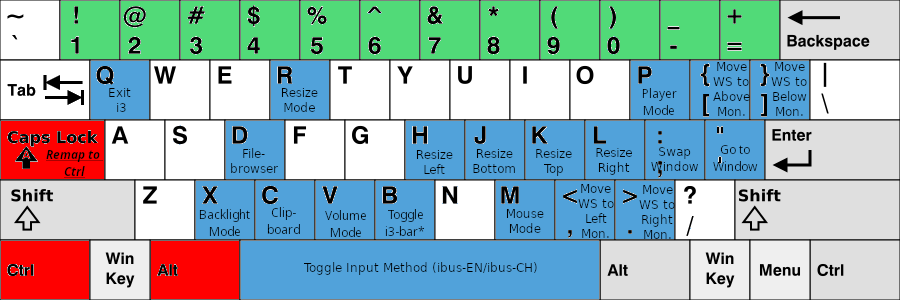
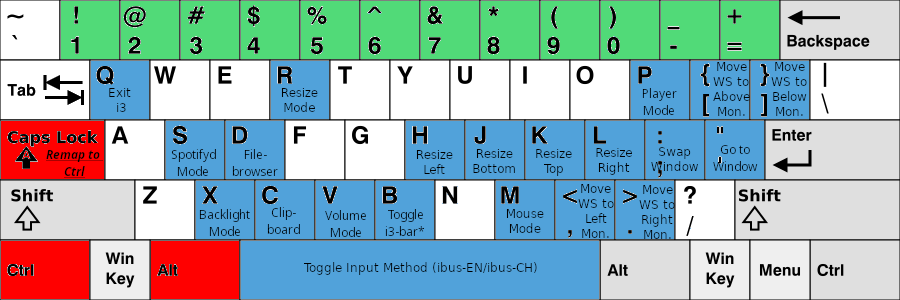
update

Changed region(s): [[0.1867, 0.39, 0.3111, 0.6]]

diff --git a/config/ranger/commands.py b/config/ranger/commands.py
@@ -109,7 +109,7 @@ class fzf_select_tree(Command):
         env['FZF_DEFAULT_COMMAND'] = fzf_default_command
         # Modified for fish shell
         env['FZF_DEFAULT_OPTS'] = "--height=100% --layout=reverse --ansi \
-           --bind alt-k:preview-up,alt-j:preview-down,ctrl-y:preview-up,ctrl-e:preview-down,ctrl-b:preview-page-up,ctrl-f:preview-page-down \
+           --bind alt-k:up,alt-j:down,ctrl-y:preview-up,ctrl-e:preview-down,ctrl-b:preview-page-up,ctrl-f:preview-page-down \
            --preview=\"tree  3 -I '.git' -I '*.py[co]' -I '__pycache__' {}\""
 
         fzf = self.fm.execute_command('fzf --no-multi',
@@ -169,7 +169,7 @@ class fzf_select_cat(Command):
         env['FZF_DEFAULT_COMMAND'] = fzf_default_command
         # Modified for fish shell
         env['FZF_DEFAULT_OPTS'] = "--height=100% --layout=reverse --ansi \
-           --bind alt-k:preview-up,alt-j:preview-down,ctrl-y:preview-up,ctrl-e:preview-down,ctrl-b:preview-page-up,ctrl-f:preview-page-down \
+           --bind alt-k:up,alt-j:down,ctrl-y:preview-up,ctrl-e:preview-down,ctrl-b:preview-page-up,ctrl-f:preview-page-down \
             --preview=\"cat --color=always {}\""
 
         fzf = self.fm.execute_command('fzf --no-multi',

diff --git a/README.md b/README.md
@@ -221,7 +221,9 @@ Note: the term "window" used in this configuration actually refers to "container
 - __Title Bar Mode (`[Winkey]` + `[Shift]` + `[t]`)__
     - Modify i3 title bar, e.g. hide/show title bar, font size
 - __Player Mode (`[Ctrl]`+`[Alt]`+`[p]`)__
-    - Player control (e.g. previous, pause-play, next, fast/back-ward, stop) for spotify, player, vlc
+    - Player control (e.g. previous, pause-play, next, fast/back-ward, stop) for spotifyd, player, vlc
+- __Spotifyd Mode (`[Ctrl]`+`[Alt]`+`[s]`)__
+    - Spotifyd control (e.g. enable, disable, reload) for spotifyd
 - __Volume Mode (`[Ctrl]`+`[Alt]`+`[v]`)__
     - Volume control with pulsemixer (e.g. volume up/down, mute)
 - __Mark Mode (`[Winkey]` + `[Shift]` + `[m]`)__
